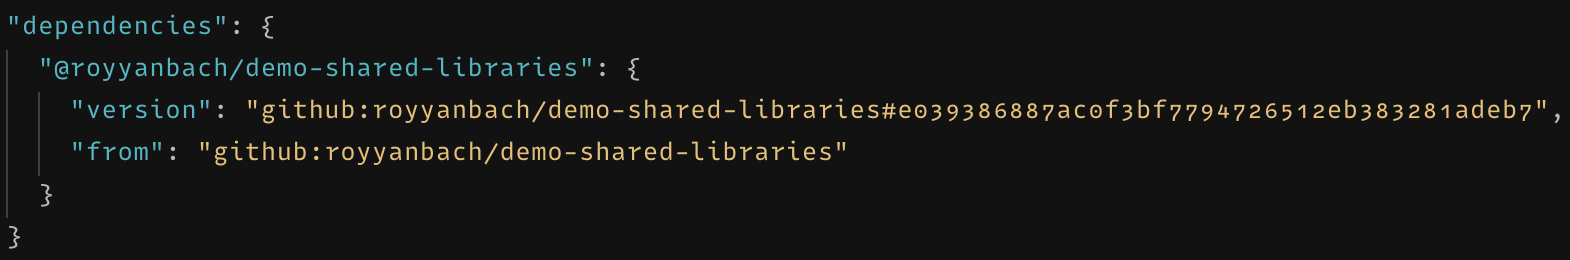
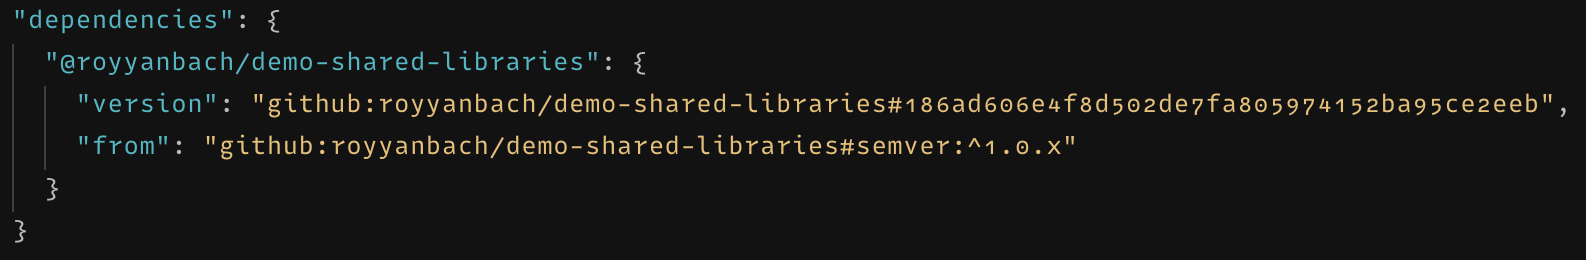
Install package using semver

diff --git a/main.js b/main.js
@@ -1,1 +1,6 @@
+import greeting from '@royyanbach/demo-shared-libraries';
+import house from '@royyanbach/demo-shared-libraries/house.js';
+
 console.log('init');
+console.log(greeting);
+console.log('I am a', house);

diff --git a/README.md b/README.md
@@ -2,6 +2,8 @@
 
 This is a demo for installing npm package from github repo https://github.com/royyanbach/demo-shared-libraries
 
+<details><summary>(INITIAL CODE)</summary>
+
 ### Installing package
 
 ![Installing package](/screenshots/1-install.png)
@@ -17,3 +19,26 @@ This is a demo for installing npm package from github repo https://github.com/ro
 ### Node modules
 
 ![node_modules](/screenshots/4-node-modules.png)
+</details>
+
+## Updated Code: v1.0.1
+
+### Update package.json
+
+![package.json](/screenshots/1-package-json.png)
+
+### Npm update
+
+![npm update](/screenshots/2-npm-update.png)
+
+### Package-lock.json
+
+![package-lock.json](/screenshots/3-package-lock-json.png)
+
+### Main.js
+
+![main.js](/screenshots/4-main-js.png)
+
+### Output
+
+![Output](/screenshots/5-output.png)
